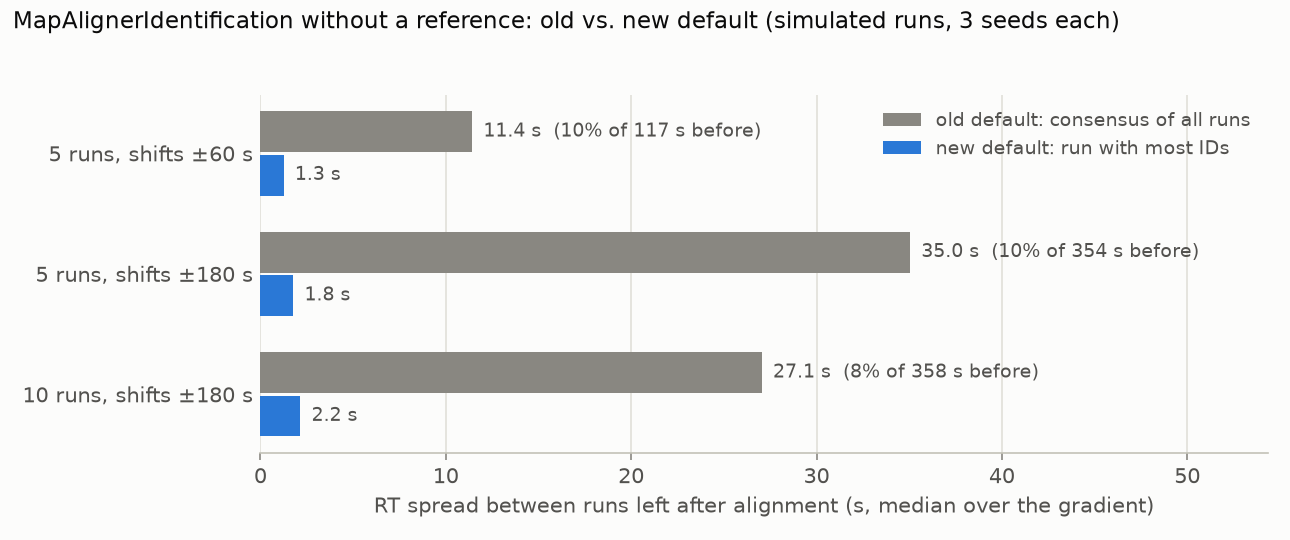
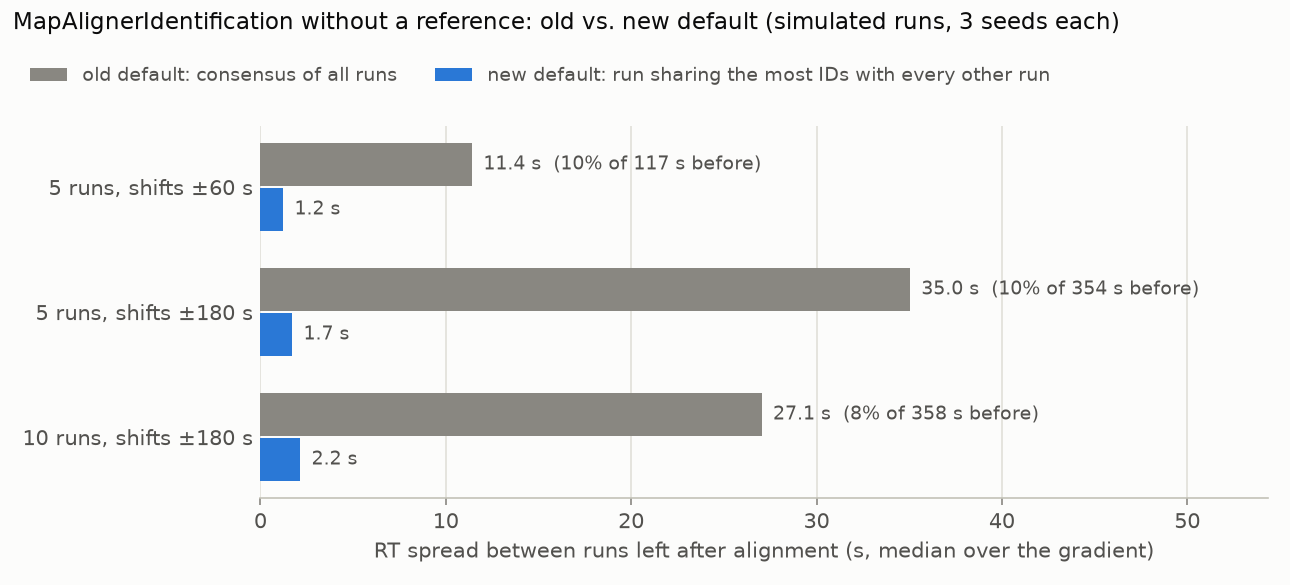
issue-2541: re-run the TOPP simulation with the refined new default
The automatic reference is now the run that shares the most identified
sequences with every other run (auto_reference best_run), not simply the
run with the most IDs. Rename the result key and legend accordingly,
re-run sim_topp.py through the patched MapAlignerIdentification and
redraw issue2541_after.png, with the legend moved above the bars.

Claude-Session: https://claude.ai/code/session_01Gk4HywNyfqiiq6gFZxUafB

diff --git a/investigations/issue-2541/plot_after.py b/investigations/issue-2541/plot_after.py
@@ -11,16 +11,16 @@ OLD, NEW = "#898781", "#2a78d6"  # de-emphasised old default, accent for the new
 res = json.load(open("sim_topp_results.json"))
 labels = list(res.keys())
 old = [res[k]["old default (consensus)"][2] for k in labels]
-new = [res[k]["new default (most_ids)"][2] for k in labels]
+new = [res[k]["new default (best_run)"][2] for k in labels]
 before = [res[k]["before alignment"][2] for k in labels]
 
 plt.rcParams.update({"font.family": "DejaVu Sans", "font.size": 10})
-fig, ax = plt.subplots(figsize=(8.6, 3.6), dpi=150, facecolor=SURFACE)
+fig, ax = plt.subplots(figsize=(8.6, 3.9), dpi=150, facecolor=SURFACE)
 ax.set_facecolor(SURFACE)
 y = np.arange(len(labels))[::-1]
 h = 0.34
 ax.barh(y + h / 2 + 0.01, old, height=h, color=OLD, label="old default: consensus of all runs")
-ax.barh(y - h / 2 - 0.01, new, height=h, color=NEW, label="new default: run with most IDs")
+ax.barh(y - h / 2 - 0.01, new, height=h, color=NEW, label="new default: run sharing the most IDs with every other run")
 for yi, o, n, b in zip(y, old, new, before):
     ax.text(o + 0.6, yi + h / 2 + 0.01, f"{o:.1f} s  ({100 * o / b:.0f}% of {b:.0f} s before)", va="center",
             color=INK2, fontsize=9)
@@ -35,8 +35,9 @@ for side in ("top", "right", "left"):
 ax.spines["bottom"].set_color(AXIS)
 ax.tick_params(axis="x", colors=MUTED, labelcolor=INK2)
 ax.tick_params(axis="y", length=0)
-ax.legend(loc="upper right", frameon=False, labelcolor=INK2, fontsize=9)
+# legend in one row under the title, clear of the bar annotations:
+fig.legend(loc="upper left", bbox_to_anchor=(0.01, 0.915), ncol=2, frameon=False, labelcolor=INK2, fontsize=9)
 fig.suptitle("MapAlignerIdentification without a reference: old vs. new default (simulated runs, 3 seeds each)",
              x=0.01, ha="left", fontsize=11, color=INK)
-fig.tight_layout(rect=(0, 0, 1, 0.95))
+fig.tight_layout(rect=(0, 0, 1, 0.9))
 fig.savefig("issue2541_after.png", facecolor=SURFACE)

diff --git a/investigations/issue-2541/sim_topp.py b/investigations/issue-2541/sim_topp.py
@@ -57,7 +57,7 @@ def main():
     modes = {
         "before alignment": None,
         "old default (consensus)": ["-algorithm:auto_reference", "consensus"],
-        "new default (most_ids)": [],
+        "new default (best_run)": [],
     }
     results = {}
     for label, n_runs, spread, warp in scenarios:
